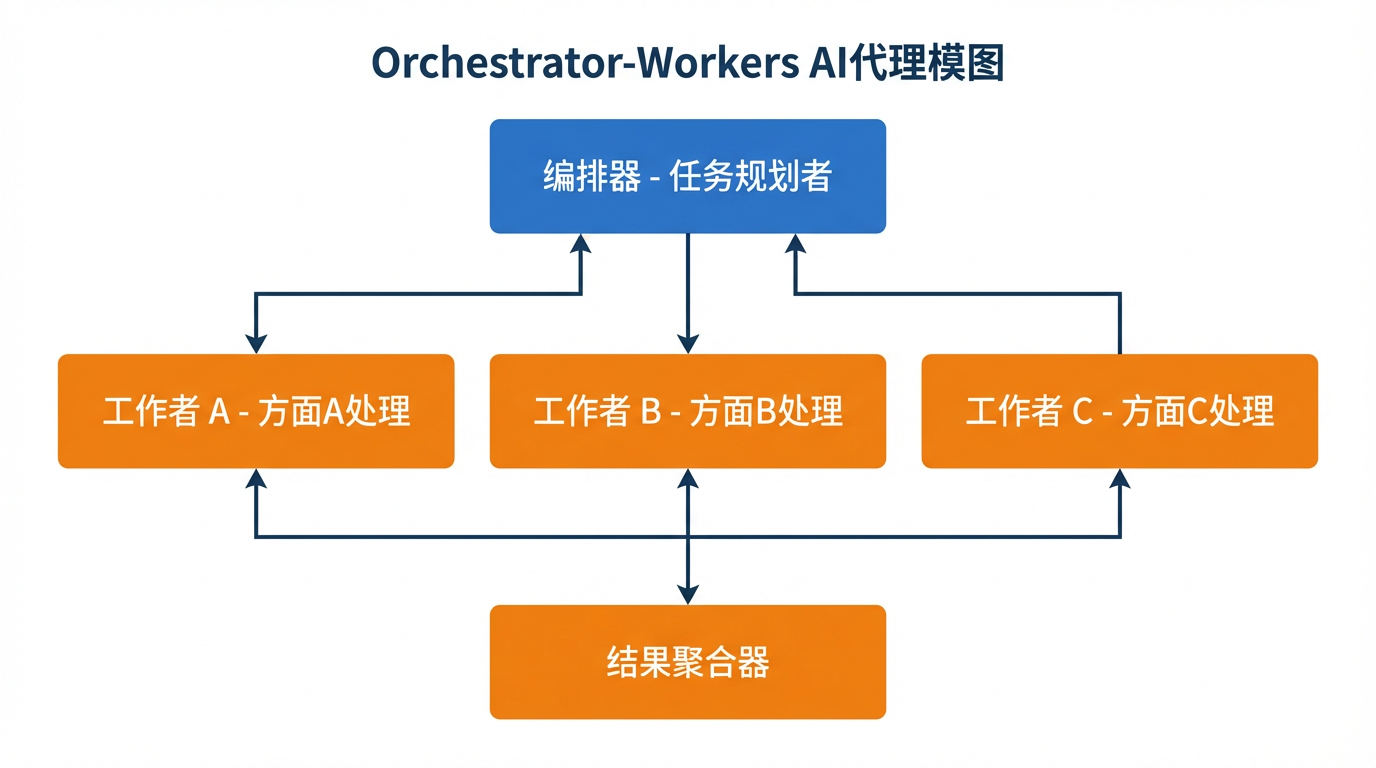
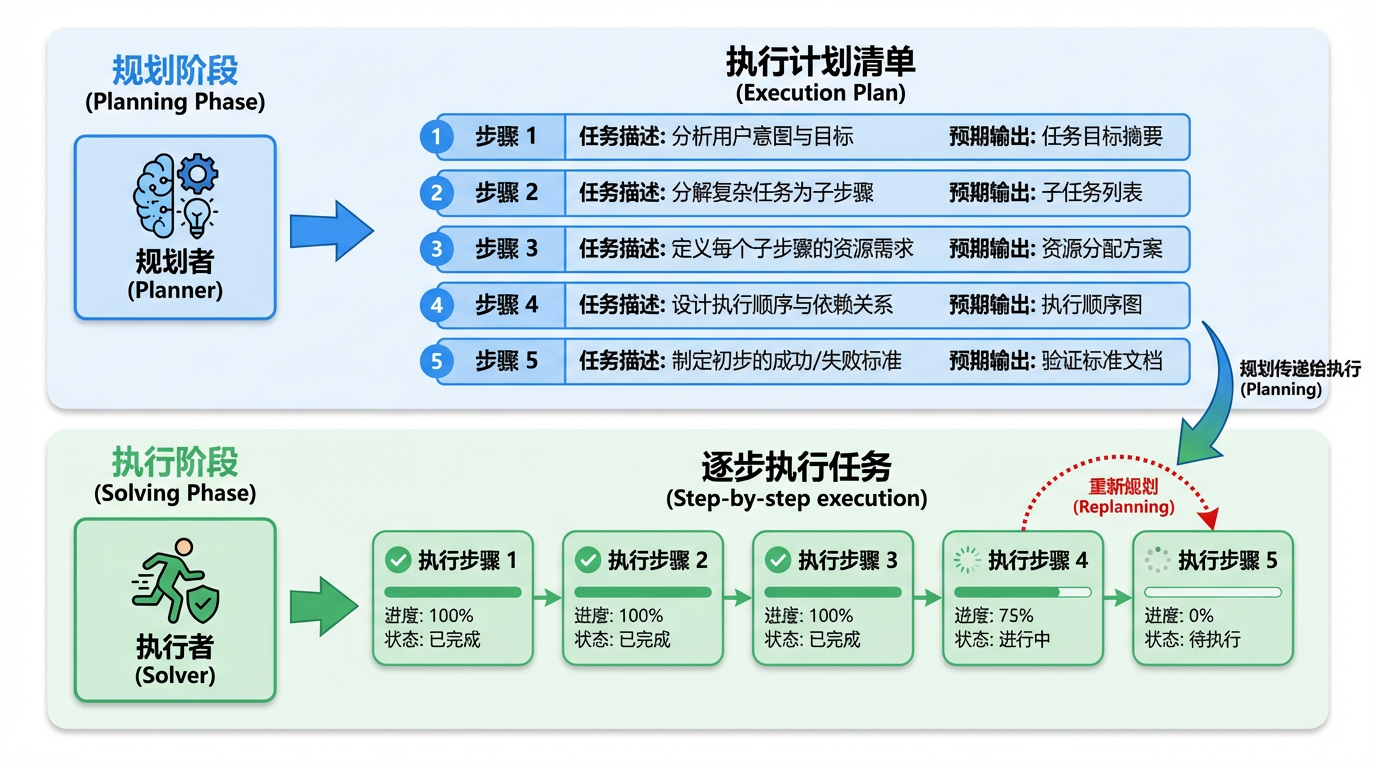
docs: 更新 Parallelization 原理图路径

diff --git a/source/source/_posts/ailearn/daily/26.md b/source/source/_posts/ailearn/daily/26.md
@@ -27,7 +27,7 @@ Parallelization 的思路特别简单：**把大任务切成小任务，多个 A
 
 老规矩，先看图解：
 
-![Parallelization 工作原理](/assets/img/ailearn/daily/33/1.png)
+![Parallelization 工作原理](/assets/img/ailearn/daily/26/1.png)
 
 从图里能看到，Parallelization 有三个关键角色：
 
